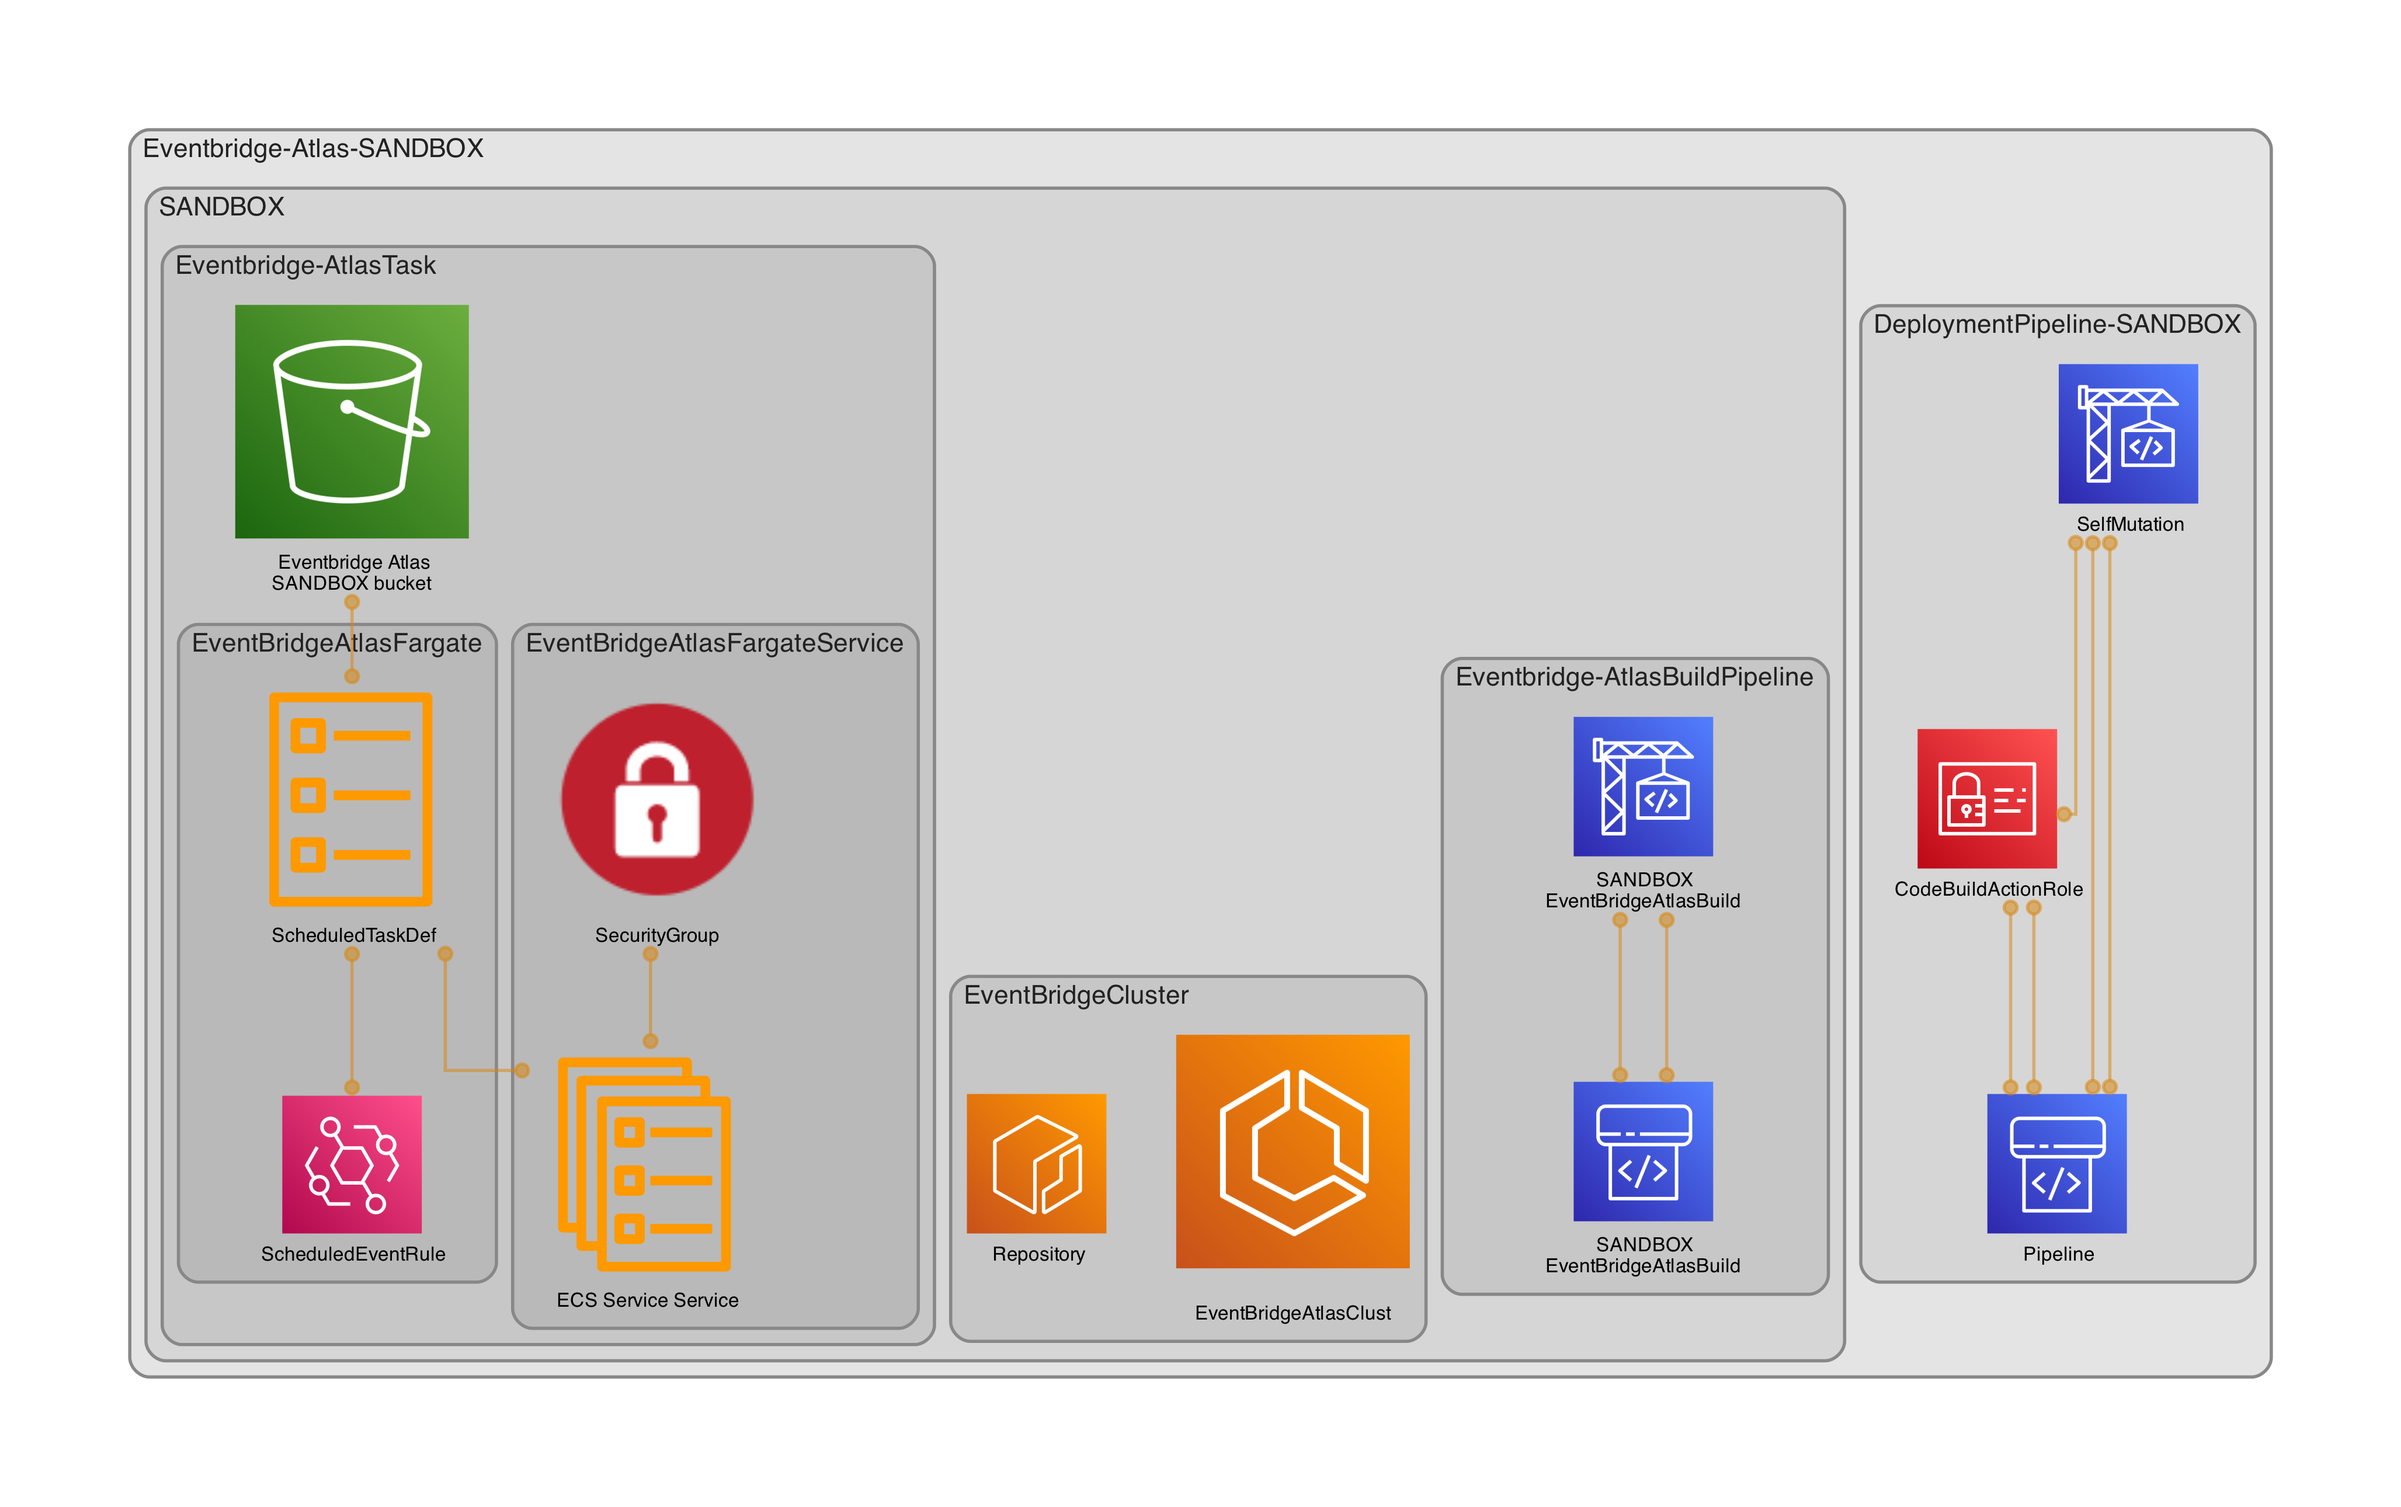
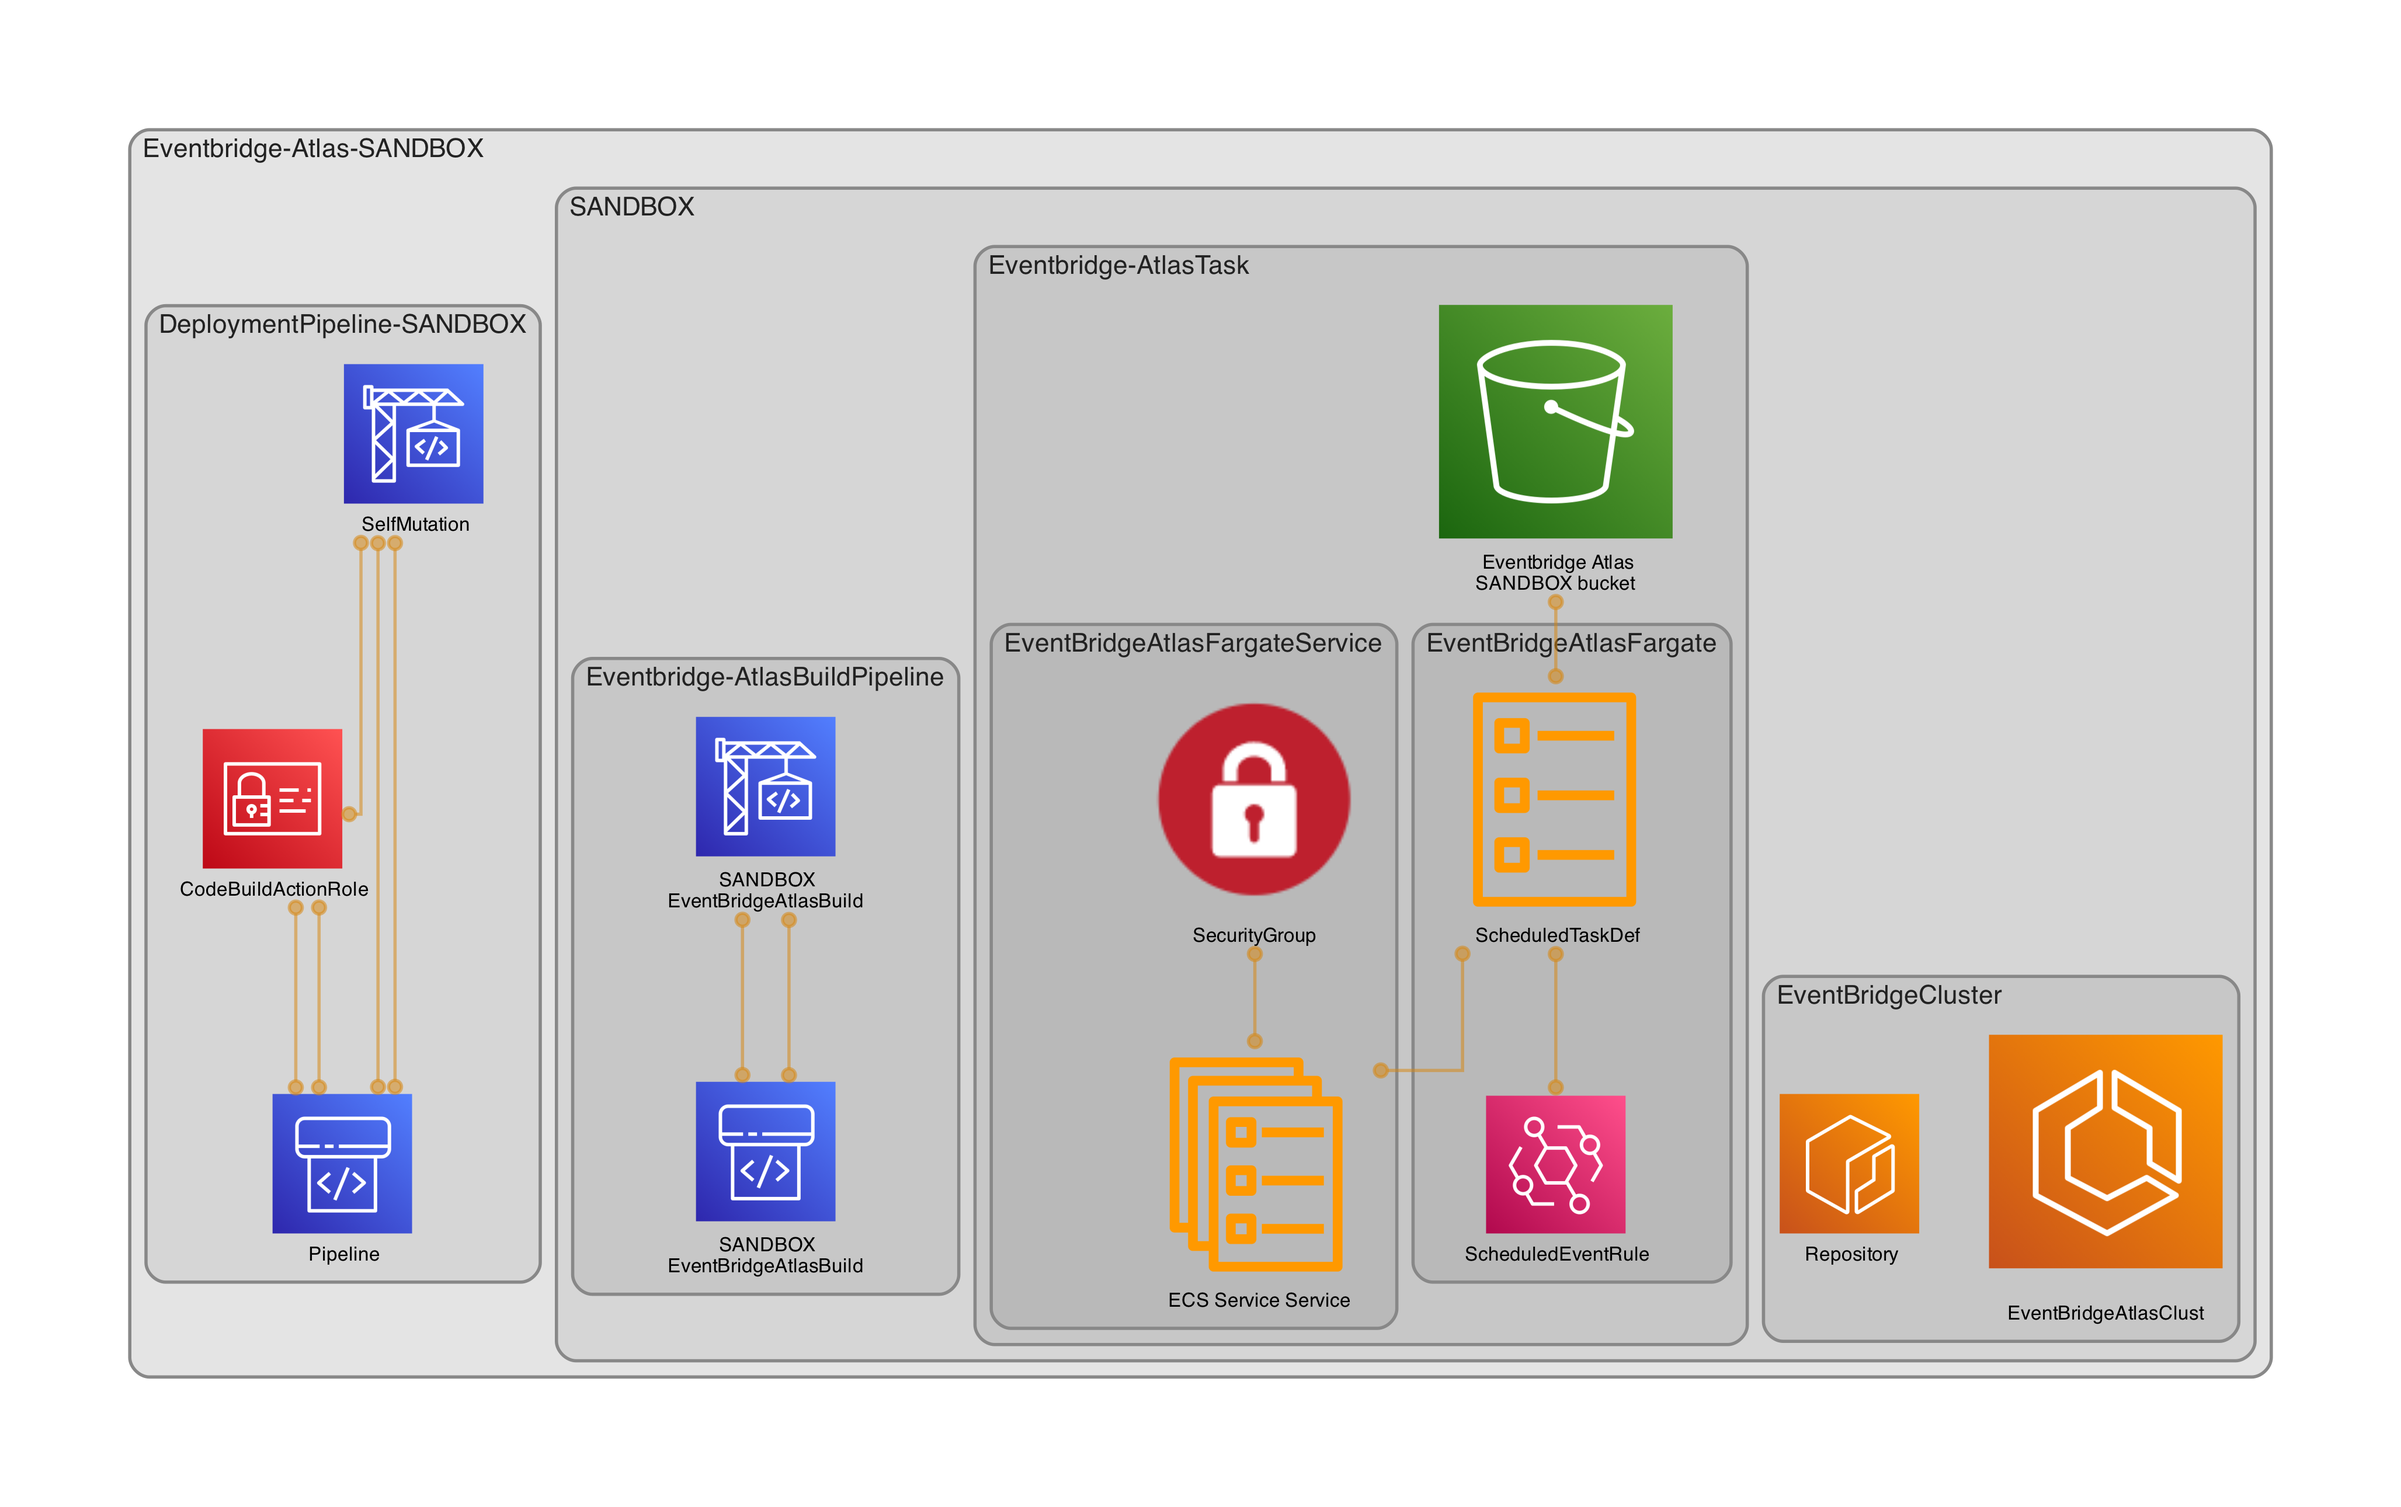
granting pull to fargate service

Changed region(s): [[0.0623, 0.124, 0.9341, 0.8989], [0.7784, 0.186, 0.9341, 0.3719], [0.4048, 0.155, 0.5293, 0.186]]

diff --git a/stacks/atlas_stacks/atlas_resources.py b/stacks/atlas_stacks/atlas_resources.py
@@ -58,6 +58,10 @@ class FargateService(Stack):
         
         #taking fargate task definition and making a service
         fargate_service = ecs.FargateService(self, 'EventBridgeAtlasFargateService', task_definition=fargate_task.task_definition,cluster=props['cluster'])
+
+        #make sure srvice can pull the repo
+        repository:ecr.Repository = props['ecr_repo']
+        repository.grant_pull(fargate_service.task_definition.execution_role)
         self.output_props = props.copy()
         self.output_props['ecs_service']=fargate_service
 
